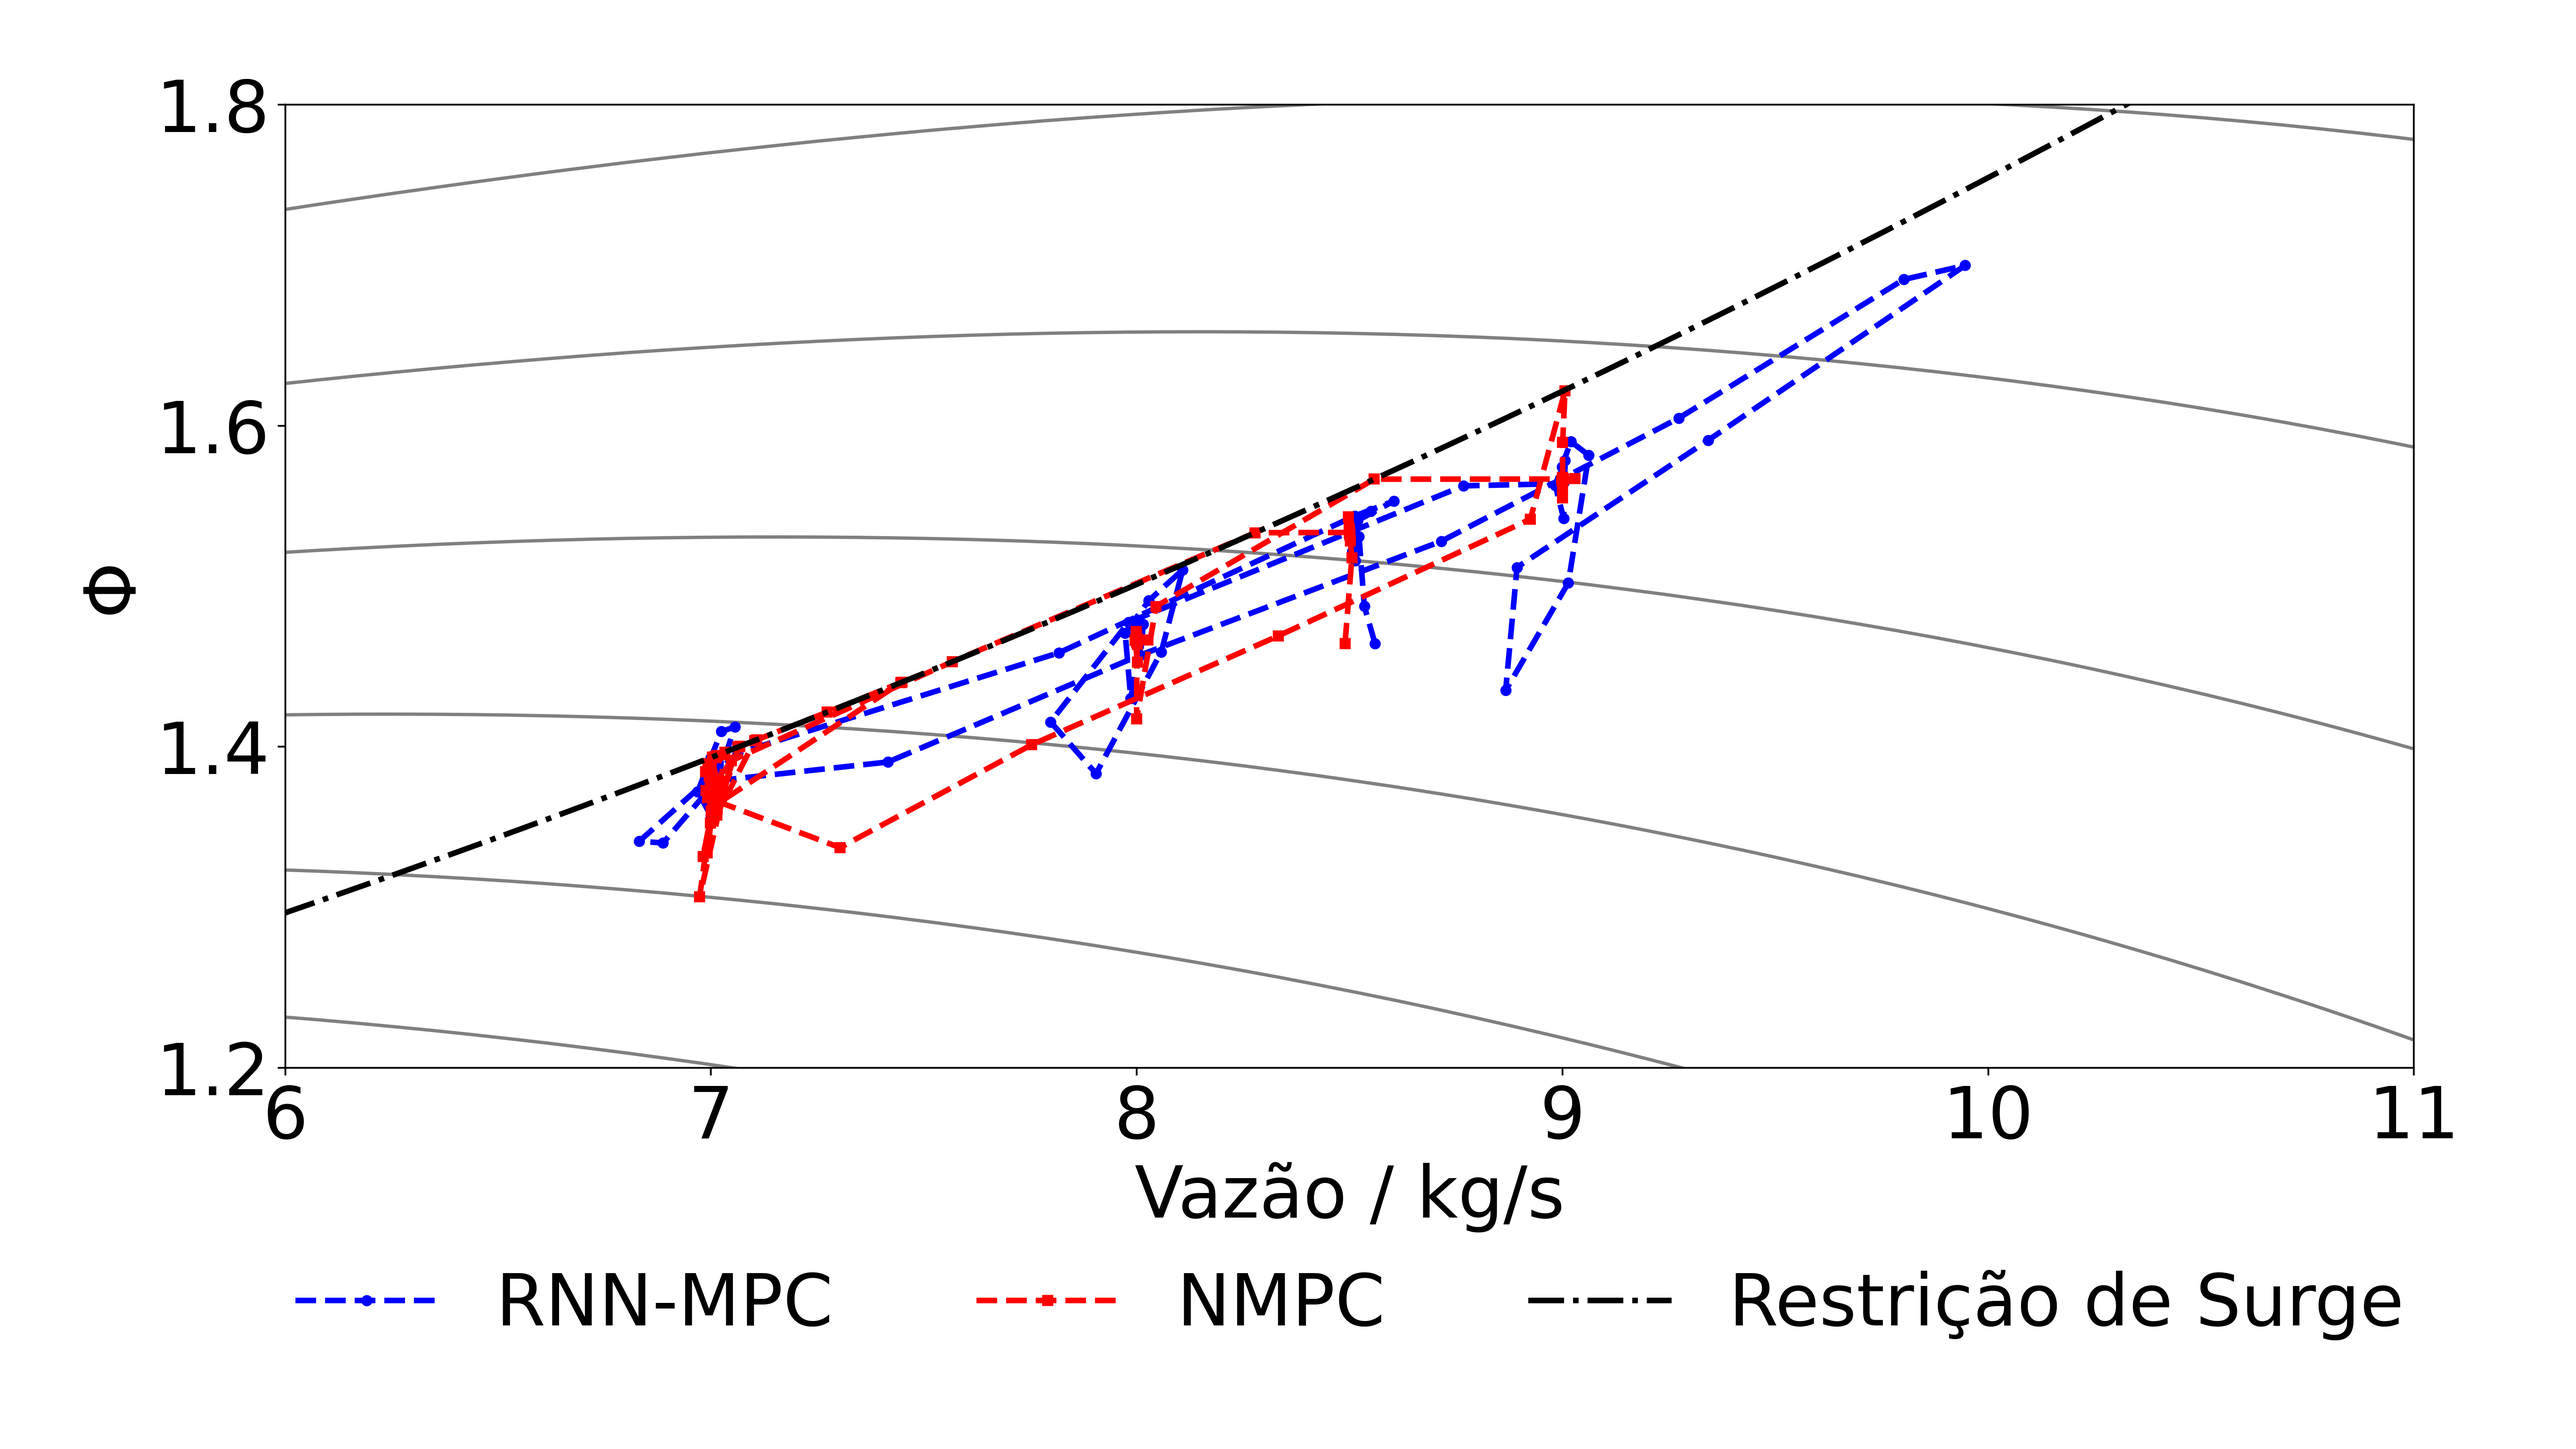
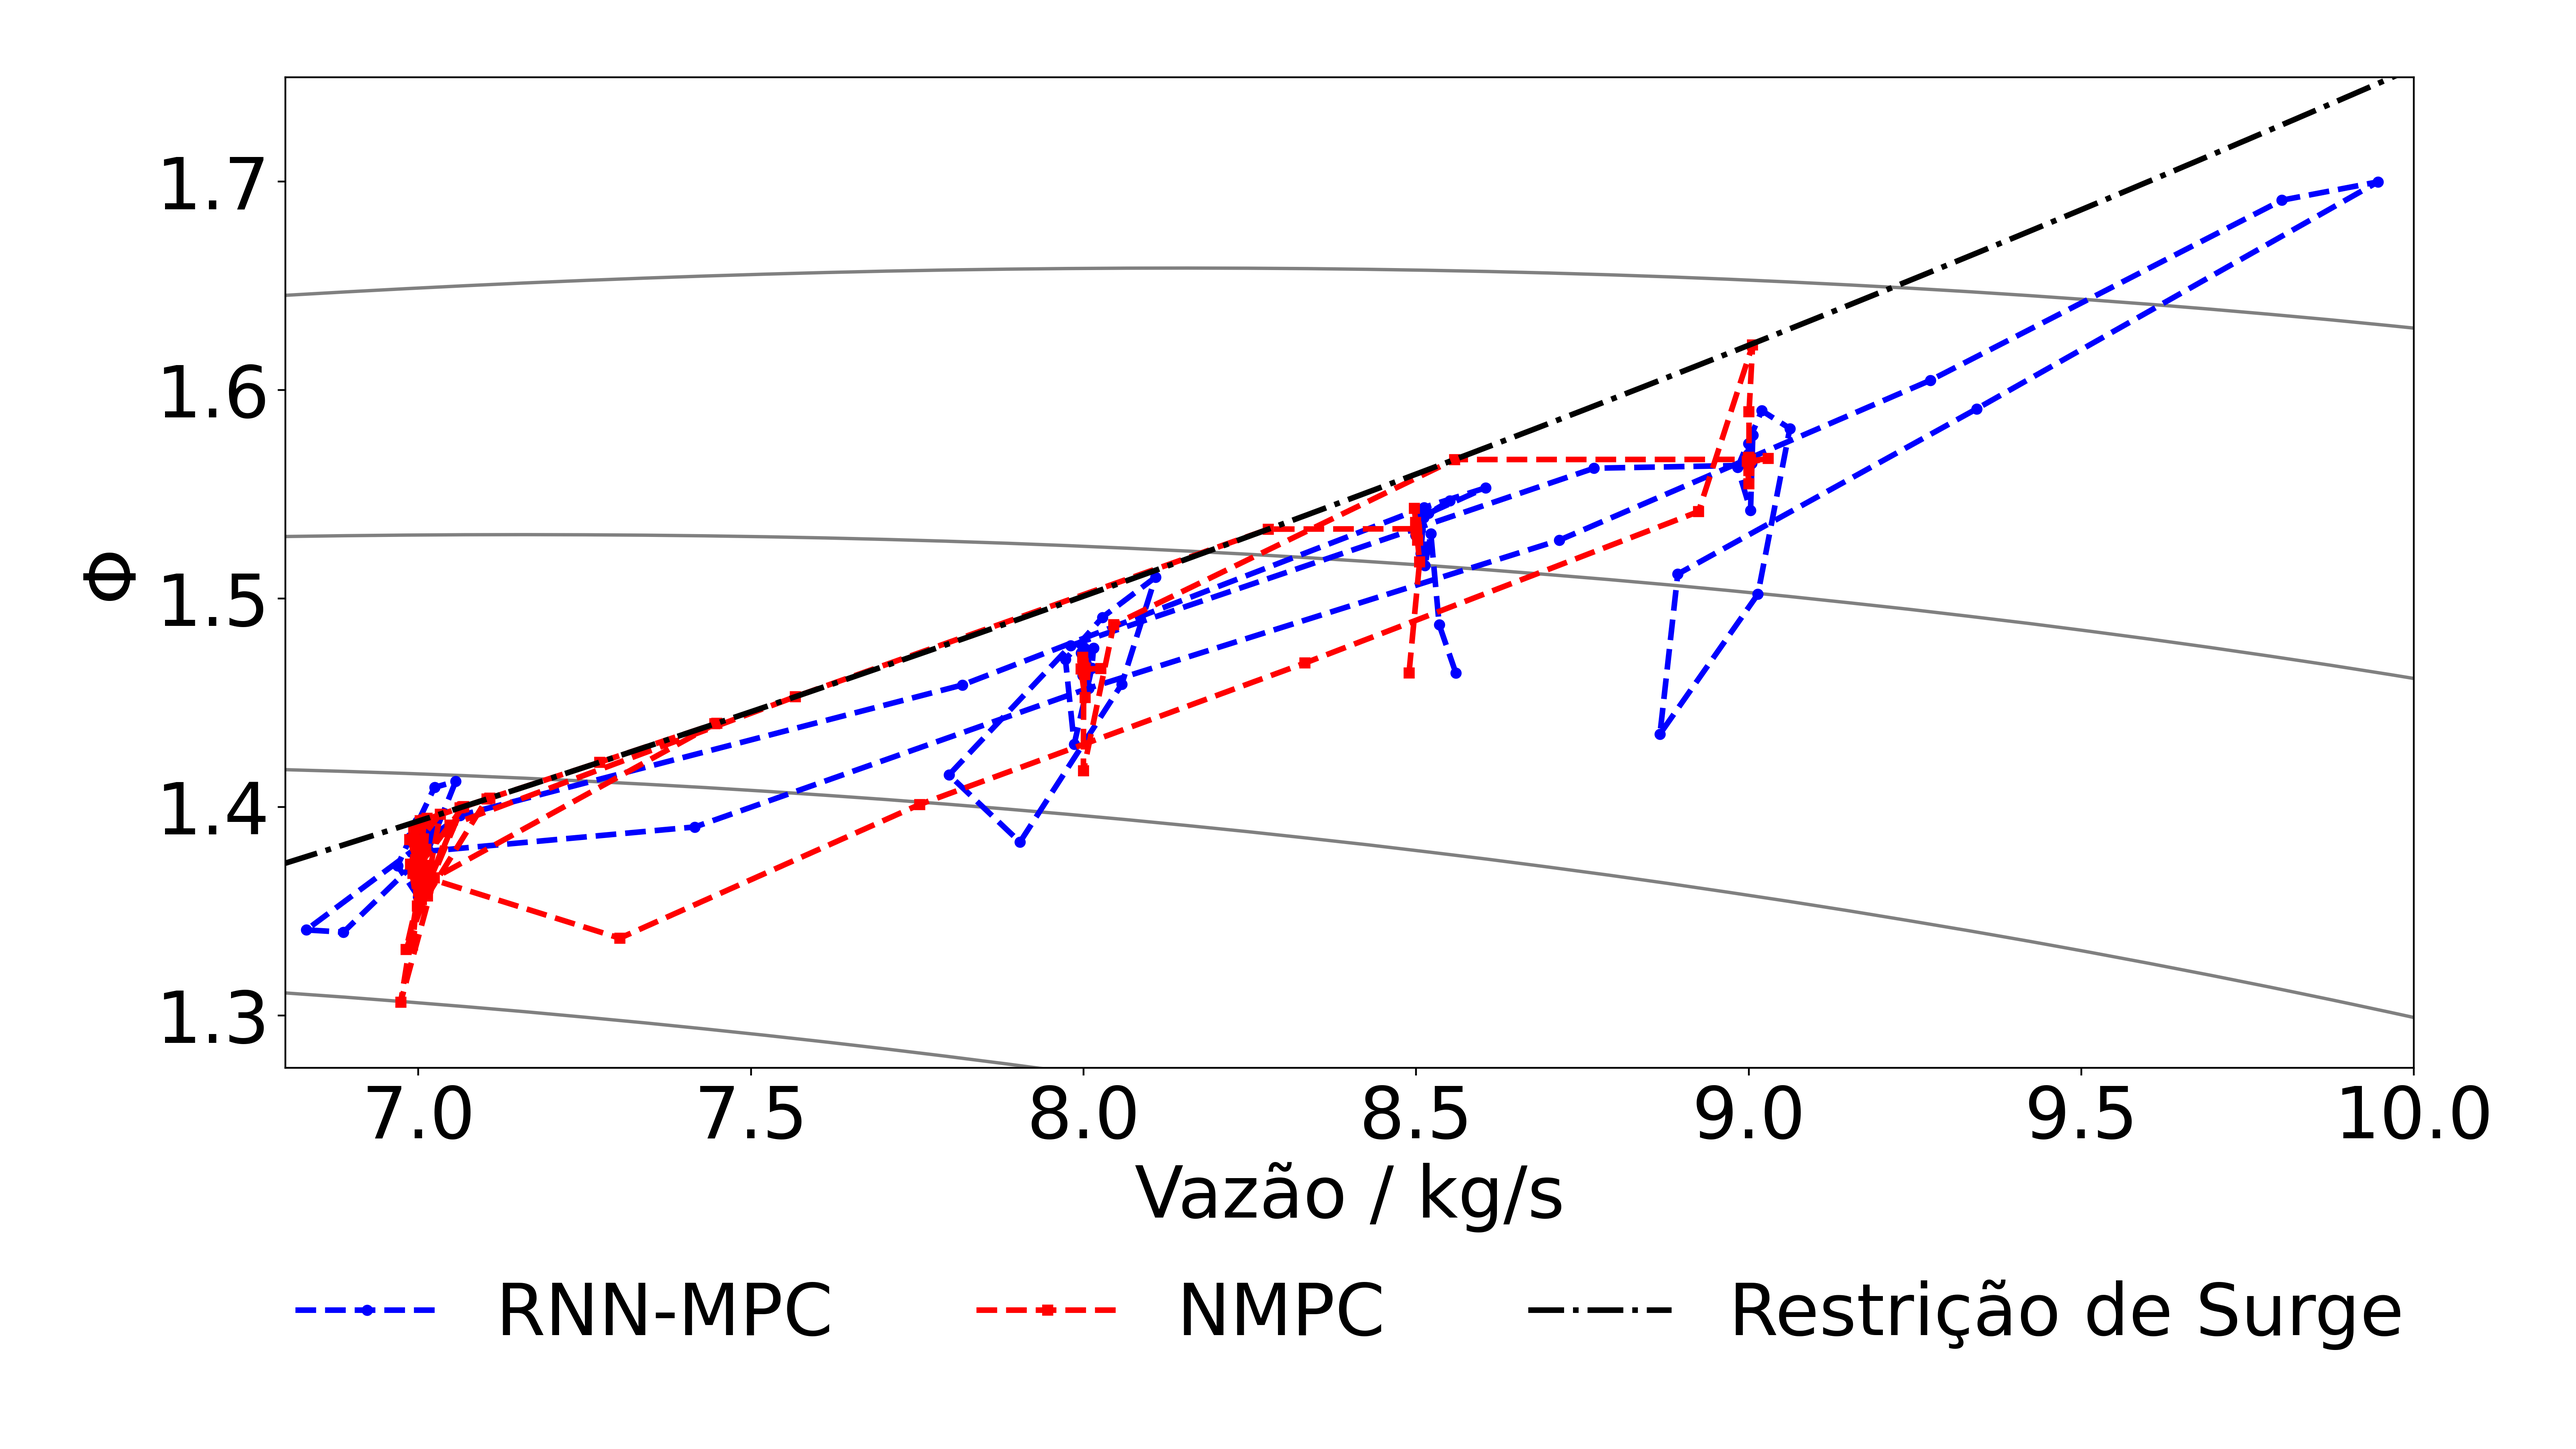
mudanças nos plots apenas

diff --git a/NNMPC/libs/Interpolation.py b/NNMPC/libs/Interpolation.py
@@ -146,8 +146,8 @@ class Interpolation:
             ncol=3,
             frameon=False
         )
-        ax.set_ylim(1.2, 1.8)
-        ax.set_xlim(6,11)
+        ax.set_ylim(1.275, 1.75)
+        ax.set_xlim(6.8,10)
         plt.subplots_adjust(top=0.92, bottom=0.25, wspace=0.3)
         plt.tight_layout()
         plt.savefig(os.path.join(images_path, "interpolation_with_trajectories.png"))
